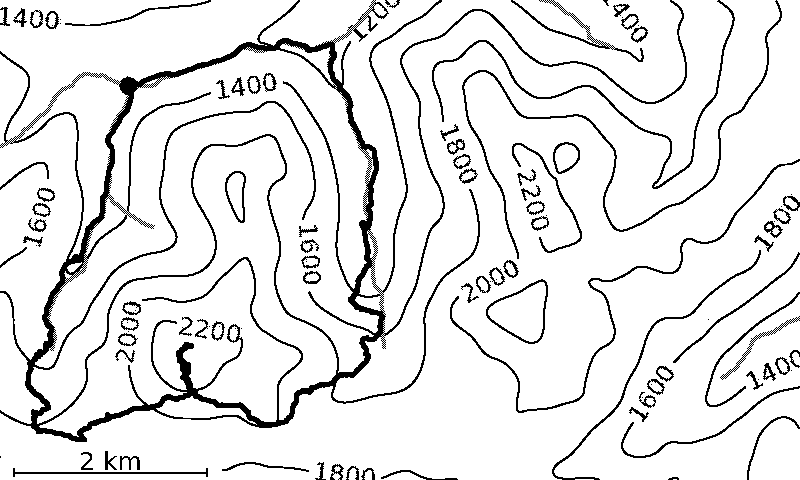
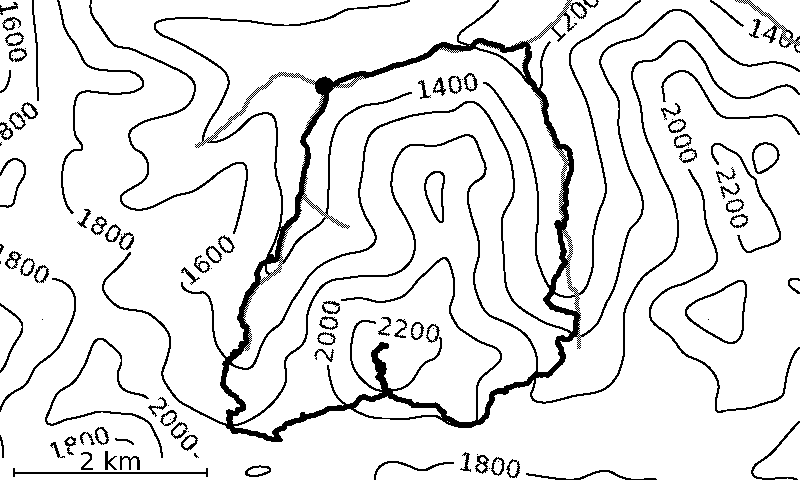
plot duotone: make vertical alignment adjustable

diff --git a/hikingplots/plot/plot.py b/hikingplots/plot/plot.py
@@ -78,11 +78,25 @@ def plot_track_duotone(
     topo_land_path: pathlib.Path | str,
     topo_water_path: pathlib.Path | str,
     draw_partial_track: float = 1.0,
+    track_halign: str="center",
     draw_topo: bool = True,
     draw_major_level_labels: bool = True,
-    show_steps: bool = True,
     add_scale: bool = False,
+    show_steps: bool = True,
 ):
+    """Plot a track in duotone style.
+
+    Args:
+        track_path: Path to the track folder.
+        topo_land_path: Path to the land topography data (see `topo-land` in README.md).
+        topo_water_path: Path to the water topography data (see `topo-water` in README.md).
+        draw_partial_track: Fraction of the track to draw (if 0 <= `draw_partial_track` < 1). Draw full track if `draw_partial_track` >= 1.
+        track_halign: Horizontal alignment of the track. One of "left", "center", "right".
+        draw_topo: Whether to draw the topography.
+        draw_major_level_labels: Whether to draw the major level labels.
+        show_steps: Whether to log the steps on the console.
+        add_scale: Whether to add a scale to the plot.
+    """
     target_height = 480
     target_width = 800
 
@@ -123,10 +137,17 @@ def plot_track_duotone(
             )
         else:
             # too high -> make wider
-            area_of_interest.east_longitude = (
-                area_of_interest.west_longitude
-                + area_of_interest.height / longitude_scale * target_aspect
-            )
+            target_width_longitude = area_of_interest.height / longitude_scale * target_aspect
+            if track_halign == "center":
+                current_center = area_of_interest.center_longitude
+                area_of_interest.east_longitude = current_center + 0.5 * target_width_longitude
+                area_of_interest.west_longitude = current_center - 0.5 * target_width_longitude
+            elif track_halign == "left":
+                area_of_interest.east_longitude = area_of_interest.west_longitude + target_width_longitude
+            elif track_halign == "right":
+                area_of_interest.west_longitude = area_of_interest.east_longitude - target_width_longitude
+            else:
+                raise ValueError(f"Invalid track_halign: {track_halign}")
 
     if draw_topo:
         with step_indicator_cls("Loading land topography"):

diff --git a/hikingplots/plot/main.py b/hikingplots/plot/main.py
@@ -16,6 +16,12 @@ def cli():
     type=click.Path(exists=True),
 )
 @click.option(
+    "--output-path",
+    help="Path to the output file",
+    type=click.Path(dir_okay=False),
+    required=True,
+)
+@click.option(
     "--topo-land-path",
     default="topo-land",
     help="Path to the folder containing the land topology data",
@@ -28,12 +34,6 @@ def cli():
     type=click.Path(exists=True),
 )
 @click.option("--tag", help="Limit the plot to a specific tag", type=str)
-@click.option(
-    "--output-path",
-    help="Path to the output file",
-    type=click.Path(dir_okay=False),
-    required=True,
-)
 @click.option("--no-terrain", is_flag=True)
 @click.option("--no-water", is_flag=True)
 @click.option("--no-tracks", is_flag=True)
@@ -50,6 +50,12 @@ def plot_area(*args, output_path, **kwargs):
     type=click.Path(exists=True),
 )
 @click.option(
+    "--output-path",
+    help="Path to the output file",
+    type=click.Path(dir_okay=False),
+    required=True,
+)
+@click.option(
     "--topo-land-path",
     default="topo-land",
     help="Path to the folder containing the land topology data",
@@ -61,12 +67,8 @@ def plot_area(*args, output_path, **kwargs):
     help="Path to the folder containing the water topology data",
     type=click.Path(exists=True),
 )
-@click.option(
-    "--output-path",
-    help="Path to the output file",
-    type=click.Path(dir_okay=False),
-    required=True,
-)
+@click.option("--draw-partial-track", type=float, default=1.0)
+@click.option("--track-halign", type=str, default="center")
 @click.option("--draw-topo/--no-draw-topo", is_flag=True, default=True)
 @click.option(
     "--draw-major-level-labels/--no-draw-major-level-labels", is_flag=True, default=True

diff --git a/README.md b/README.md
@@ -88,6 +88,7 @@ python -m hikingplots.plot.main plot-track-duotone \
     example-tracks/widderstein \
     --draw-topo \
     --draw-major-level-labels \
+    --track-halign center \
     --output-path example-plots/widderstein-duotone.png
 ```
 
